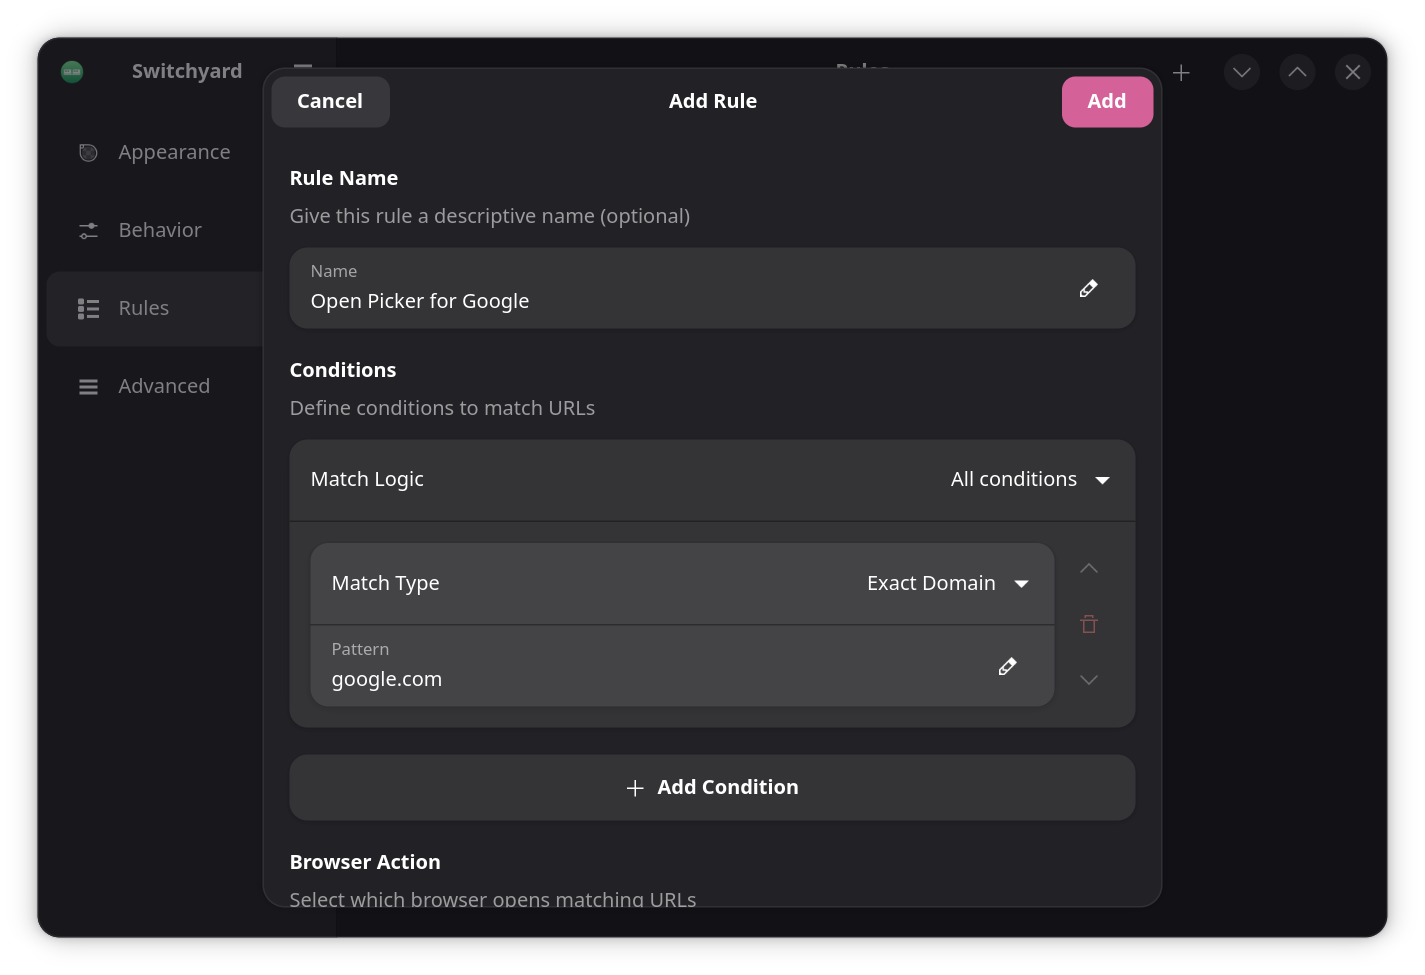
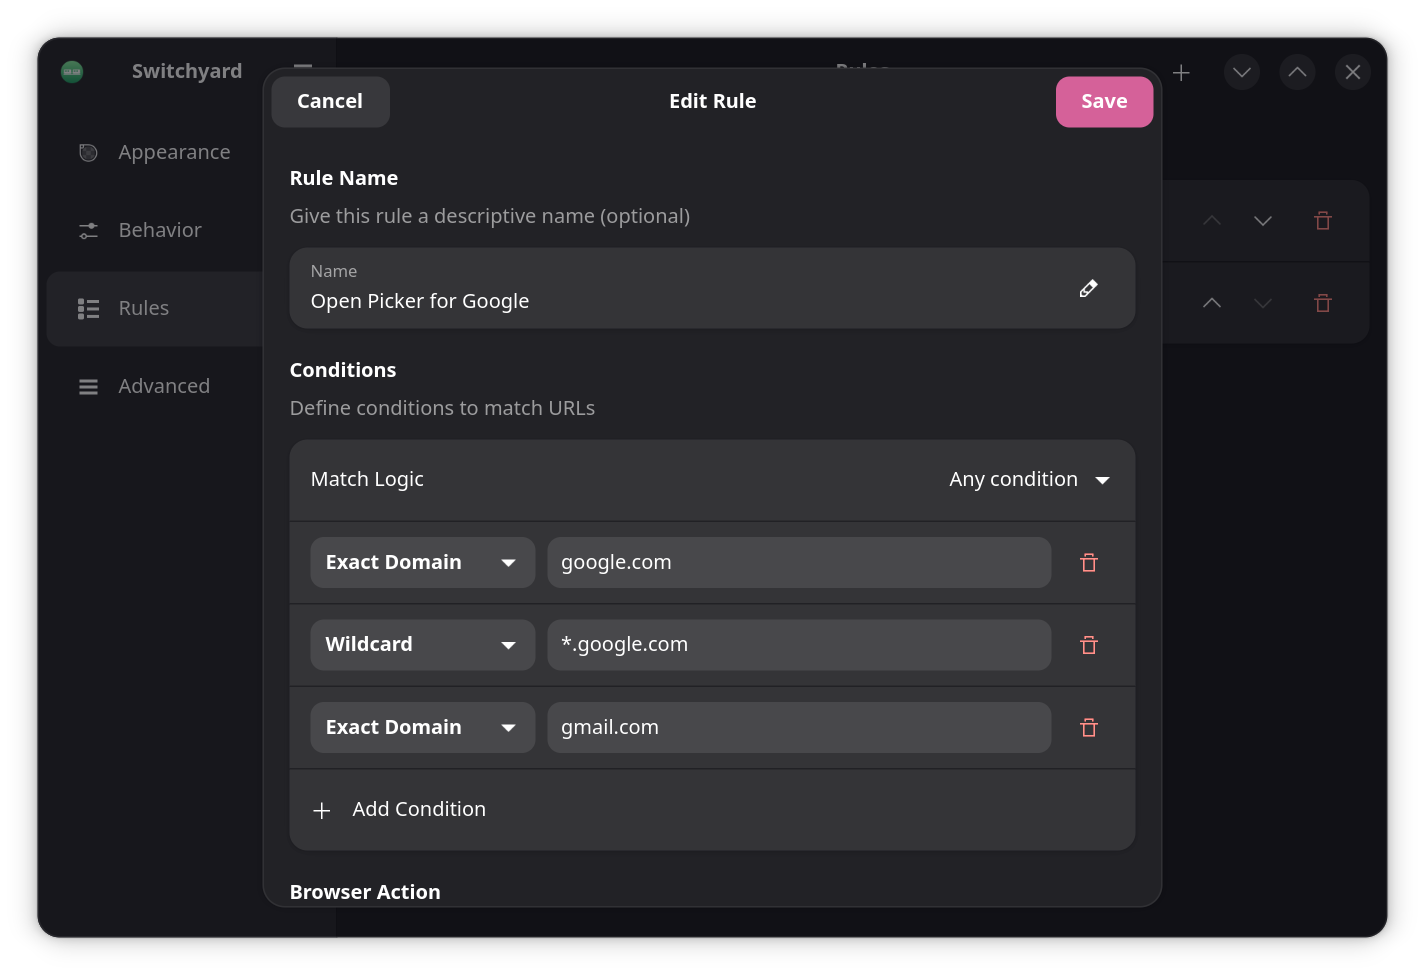
dialog/rule/common: simplify condition UI by removing ability to change order (doesn't change rule logic)

diff --git a/src/dialog_rule_common.go b/src/dialog_rule_common.go
@@ -92,6 +92,17 @@ func buildRuleDialogContent(
 			conditionRows = append(conditionRows, row)
 		}
 
+		// Add "Add Condition" row at the end of the list
+		addConditionRow := adw.NewActionRow()
+		addConditionRow.SetTitle("Add Condition")
+		addConditionRow.AddPrefix(gtk.NewImageFromIconName("list-add-symbolic"))
+		addConditionRow.SetActivatable(true)
+		addConditionRow.ConnectActivated(func() {
+			*conditions = append(*conditions, Condition{Type: "domain", Pattern: ""})
+			rebuildConditions()
+		})
+		conditionsListBox.Append(addConditionRow)
+
 		// Update action button state
 		actionBtn.SetSensitive(areAllConditionsValid(*conditions))
 	}
@@ -99,18 +110,6 @@ func buildRuleDialogContent(
 	rebuildConditions()
 	conditionsGroup.Add(conditionsListBox)
 	content.Append(conditionsGroup)
-
-	// Add condition button
-	addConditionGroup := adw.NewPreferencesGroup()
-	addConditionRow := adw.NewButtonRow()
-	addConditionRow.SetTitle("Add Condition")
-	addConditionRow.SetStartIconName("list-add-symbolic")
-	addConditionRow.ConnectActivated(func() {
-		*conditions = append(*conditions, Condition{Type: "domain", Pattern: ""})
-		rebuildConditions()
-	})
-	addConditionGroup.Add(addConditionRow)
-	content.Append(addConditionGroup)
 
 	// Action section
 	actionGroup := adw.NewPreferencesGroup()
@@ -165,62 +164,39 @@ func createConditionRow(
 	conditionRow.SetActivatable(false)
 	conditionRow.SetSelectable(false)
 
-	conditionContainer := gtk.NewBox(gtk.OrientationHorizontal, 6)
-	conditionContainer.SetMarginTop(12)
-	conditionContainer.SetMarginBottom(12)
+	conditionContainer := gtk.NewBox(gtk.OrientationHorizontal, 8)
+	conditionContainer.SetMarginTop(8)
+	conditionContainer.SetMarginBottom(8)
 	conditionContainer.SetMarginStart(12)
 	conditionContainer.SetMarginEnd(12)
 
-	// Inner listbox for type and pattern fields
-	innerListBox := gtk.NewListBox()
-	innerListBox.SetSelectionMode(gtk.SelectionNone)
-	innerListBox.AddCSSClass("boxed-list")
-	innerListBox.SetHExpand(true)
+	// Match type dropdown
+	typeDropdown := gtk.NewDropDown(
+		gtk.NewStringList([]string{"Exact Domain", "URL Contains", "Wildcard", "Regex"}),
+		nil,
+	)
+	typeDropdown.SetSelected(conditionTypeToIndex((*conditions)[condIdx].Type))
+	typeDropdown.SetVAlign(gtk.AlignCenter)
+	typeDropdown.SetSizeRequest(150, -1) // Fixed width for consistent alignment
+	conditionContainer.Append(typeDropdown)
 
-	// Type row
-	typeRow := adw.NewComboRow()
-	typeRow.SetTitle("Match Type")
-	typeRow.SetModel(gtk.NewStringList([]string{"Exact Domain", "URL Contains", "Wildcard", "Regex"}))
-	typeRow.SetSelected(conditionTypeToIndex((*conditions)[condIdx].Type))
-	innerListBox.Append(typeRow)
+	// Pattern entry
+	patternEntry := gtk.NewEntry()
+	patternEntry.SetText((*conditions)[condIdx].Pattern)
+	patternEntry.SetHExpand(true)
+	patternEntry.SetPlaceholderText("Pattern")
+	conditionContainer.Append(patternEntry)
 
-	// Pattern row
-	patternRow := adw.NewEntryRow()
-	patternRow.SetTitle("Pattern")
-	patternRow.SetText((*conditions)[condIdx].Pattern)
-	innerListBox.Append(patternRow)
-
-	// Connect handlers after both widgets are created
-	typeRow.Connect("notify::selected", func() {
-		(*conditions)[condIdx].Type = indexToConditionType(typeRow.Selected())
-		validateAndUpdateCondition(conditions, condIdx, typeRow, patternRow, actionBtn)
+	// Connect handlers
+	typeDropdown.Connect("notify::selected", func() {
+		(*conditions)[condIdx].Type = indexToConditionType(typeDropdown.Selected())
+		validateConditionEntry(conditions, condIdx, typeDropdown, patternEntry, actionBtn)
 	})
 
-	patternRow.Connect("changed", func() {
-		(*conditions)[condIdx].Pattern = patternRow.Text()
-		validateAndUpdateCondition(conditions, condIdx, typeRow, patternRow, actionBtn)
+	patternEntry.Connect("changed", func() {
+		(*conditions)[condIdx].Pattern = patternEntry.Text()
+		validateConditionEntry(conditions, condIdx, typeDropdown, patternEntry, actionBtn)
 	})
-
-	conditionContainer.Append(innerListBox)
-
-	// Buttons box
-	btnBox := gtk.NewBox(gtk.OrientationVertical, 3)
-	btnBox.SetVAlign(gtk.AlignCenter)
-
-	// Move up button
-	upBtn := gtk.NewButton()
-	upBtn.SetIconName("go-up-symbolic")
-	upBtn.SetTooltipText("Move condition up")
-	upBtn.AddCSSClass("flat")
-	upBtn.AddCSSClass("circular")
-	upBtn.SetSensitive(condIdx > 0)
-	upBtn.ConnectClicked(func() {
-		if condIdx > 0 && condIdx < len(*conditions) {
-			(*conditions)[condIdx], (*conditions)[condIdx-1] = (*conditions)[condIdx-1], (*conditions)[condIdx]
-			rebuildConditions()
-		}
-	})
-	btnBox.Append(upBtn)
 
 	// Delete button
 	deleteBtn := gtk.NewButton()
@@ -229,6 +205,7 @@ func createConditionRow(
 	deleteBtn.AddCSSClass("flat")
 	deleteBtn.AddCSSClass("circular")
 	deleteBtn.AddCSSClass("destructive-action")
+	deleteBtn.SetVAlign(gtk.AlignCenter)
 	deleteBtn.SetSensitive(len(*conditions) > 1)
 	deleteBtn.ConnectClicked(func() {
 		if len(*conditions) > 1 && condIdx < len(*conditions) {
@@ -236,45 +213,28 @@ func createConditionRow(
 			rebuildConditions()
 		}
 	})
-	btnBox.Append(deleteBtn)
+	conditionContainer.Append(deleteBtn)
 
-	// Move down button
-	downBtn := gtk.NewButton()
-	downBtn.SetIconName("go-down-symbolic")
-	downBtn.SetTooltipText("Move condition down")
-	downBtn.AddCSSClass("flat")
-	downBtn.AddCSSClass("circular")
-	downBtn.SetSensitive(condIdx < len(*conditions)-1)
-	downBtn.ConnectClicked(func() {
-		if condIdx >= 0 && condIdx < len(*conditions)-1 {
-			(*conditions)[condIdx], (*conditions)[condIdx+1] = (*conditions)[condIdx+1], (*conditions)[condIdx]
-			rebuildConditions()
-		}
-	})
-	btnBox.Append(downBtn)
-
-	conditionContainer.Append(btnBox)
 	conditionRow.SetChild(conditionContainer)
-
 	return conditionRow
 }
 
-// validateAndUpdateCondition validates a pattern and updates UI accordingly
-func validateAndUpdateCondition(
+// validateConditionEntry validates a pattern and updates UI accordingly
+func validateConditionEntry(
 	conditions *[]Condition,
 	condIdx int,
-	typeRow *adw.ComboRow,
-	patternRow *adw.EntryRow,
+	typeDropdown *gtk.DropDown,
+	patternEntry *gtk.Entry,
 	actionBtn *gtk.Button,
 ) {
-	pattern := patternRow.Text()
-	condType := indexToConditionType(typeRow.Selected())
+	pattern := patternEntry.Text()
+	condType := indexToConditionType(typeDropdown.Selected())
 
 	err := validateConditionPattern(condType, pattern)
 	if err != nil {
-		patternRow.AddCSSClass("error")
+		patternEntry.AddCSSClass("error")
 	} else {
-		patternRow.RemoveCSSClass("error")
+		patternEntry.RemoveCSSClass("error")
 	}
 
 	actionBtn.SetSensitive(areAllConditionsValid(*conditions))
